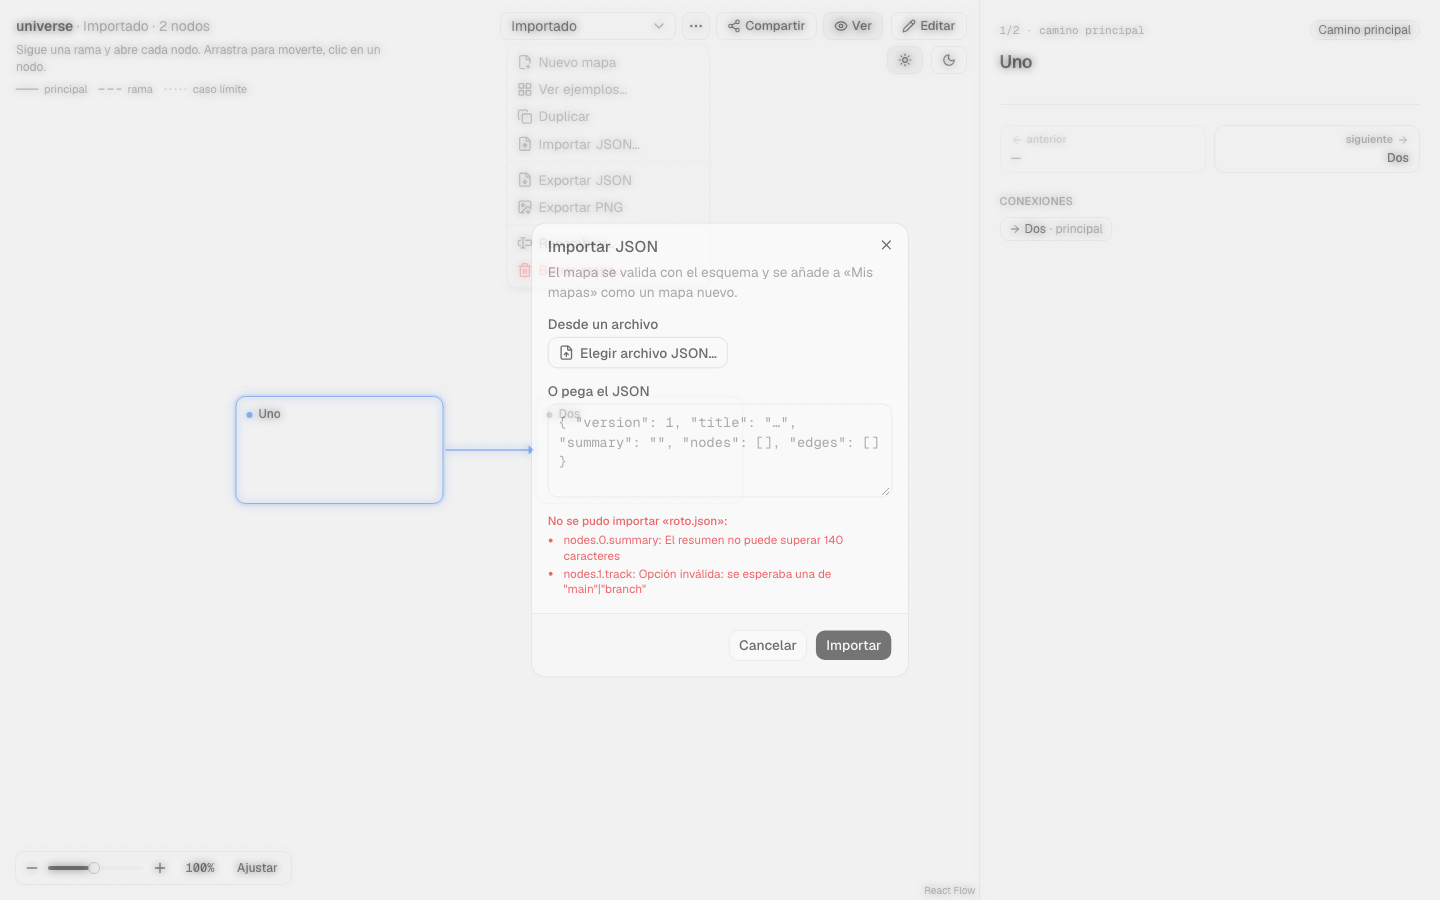
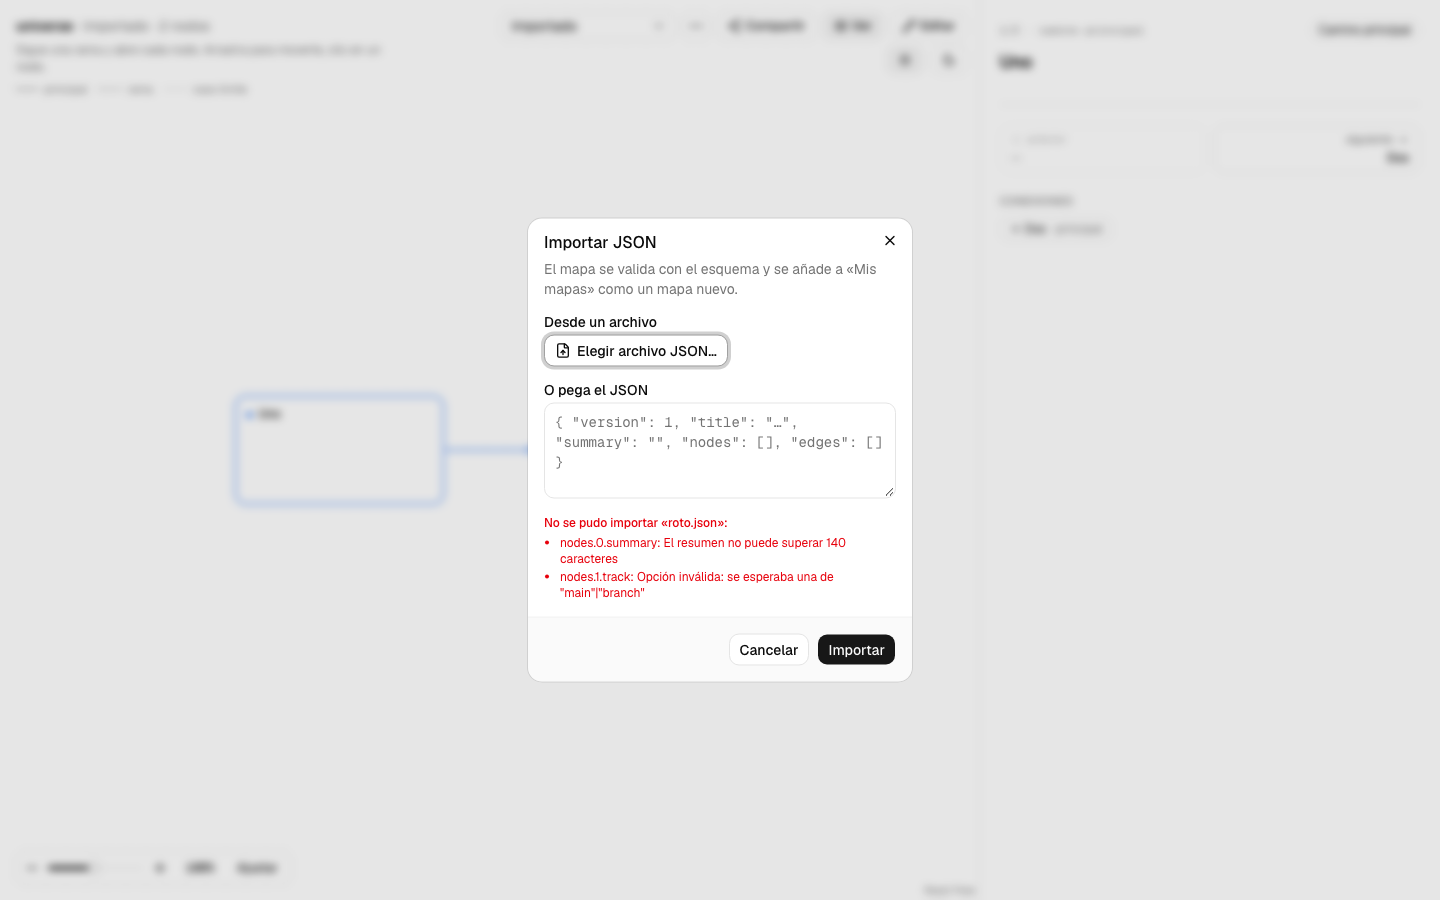
Media without localhost (O1): record at the production origin served by the local build
pnpm demo:gif opens the app at DEMO_ORIGIN (production by default) and routes those requests
to the local build, so the GIF and docs/screenshots/share-dialog.png show the public link. The
e2e no longer versions share-dialog.png. The GIF centers the node before editing (O5), and the
import and open-link screenshots wait for the menu and dialog animations.

diff --git a/tests/e2e/share.spec.ts b/tests/e2e/share.spec.ts
@@ -90,7 +90,9 @@ test.describe("share, import and export (desktop)", () => {
     expect(url).toMatch(/\/#m=[A-Za-z0-9+\-$]+$/);
     expect(await page.evaluate(() => navigator.clipboard.readText())).toBe(url);
     await expect(dialog.getByTestId("share-long")).toHaveCount(0);
-    await page.screenshot({ path: `${SHOTS}/share-dialog.png` });
+    // Never versioned from here: the link says localhost. docs/screenshots/share-dialog.png comes
+    // from `pnpm demo:gif`, which serves the build at the production origin.
+    await page.screenshot({ path: "test-results/screenshots/share-dialog.png" });
     await page.keyboard.press("Escape");
     await expect(page.getByRole("button", { name: "Compartir" })).toBeFocused();
 
@@ -108,6 +110,7 @@ test.describe("share, import and export (desktop)", () => {
     expect(await json(await downloadOf(other, "Exportar JSON"))).toEqual(source);
     // Opening a link saves nothing.
     expect((await stored(other))?.state.userMaps ?? []).toEqual([]);
+    await expect(other.getByRole("menu")).toHaveCount(0); // the export menu, mid-close otherwise
     await other.screenshot({ path: `${SHOTS}/share-open-link.png` });
 
     await other.getByTestId("save-shared").click();
@@ -214,7 +217,8 @@ test.describe("share, import and export (desktop)", () => {
     await expect(list).toContainText("nodes.0.summary: El resumen no puede superar 140 caracteres");
     await expect(list).toContainText("nodes.1.track:");
     await expect(dialog.getByLabel("O pega el JSON")).toHaveAttribute("aria-invalid", "false");
-    await page.screenshot({ path: `${SHOTS}/import-errors.png` });
+    // The menu fades out while the dialog fades in: capture both at their end state.
+    await page.screenshot({ path: `${SHOTS}/import-errors.png`, animations: "disabled" });
 
     // Broken pasted JSON.
     await dialog.getByLabel("O pega el JSON").fill('{ "version": 1,, }');

diff --git a/README.md b/README.md
@@ -27,7 +27,7 @@ Necesitas Node 22 o superior y pnpm.
 
 ```bash
 pnpm install
-pnpm dev          # http://localhost:3000
+pnpm dev          # servidor de desarrollo en el puerto 3000
 ```
 
 Para desplegar alcanza con la configuración por defecto de Vercel (o cualquier hosting de Next.js): `pnpm build` no necesita variables de entorno y todas las rutas son estáticas.
@@ -69,7 +69,7 @@ Los ejemplos no se modifican nunca: **Editar** crea una copia en "Mis mapas". Es
 
 ```bash
 pnpm install
-pnpm dev          # http://localhost:3000
+pnpm dev          # servidor de desarrollo en el puerto 3000
 pnpm build        # build de producción
 pnpm lint
 pnpm typecheck    # next typegen && tsc --noEmit
